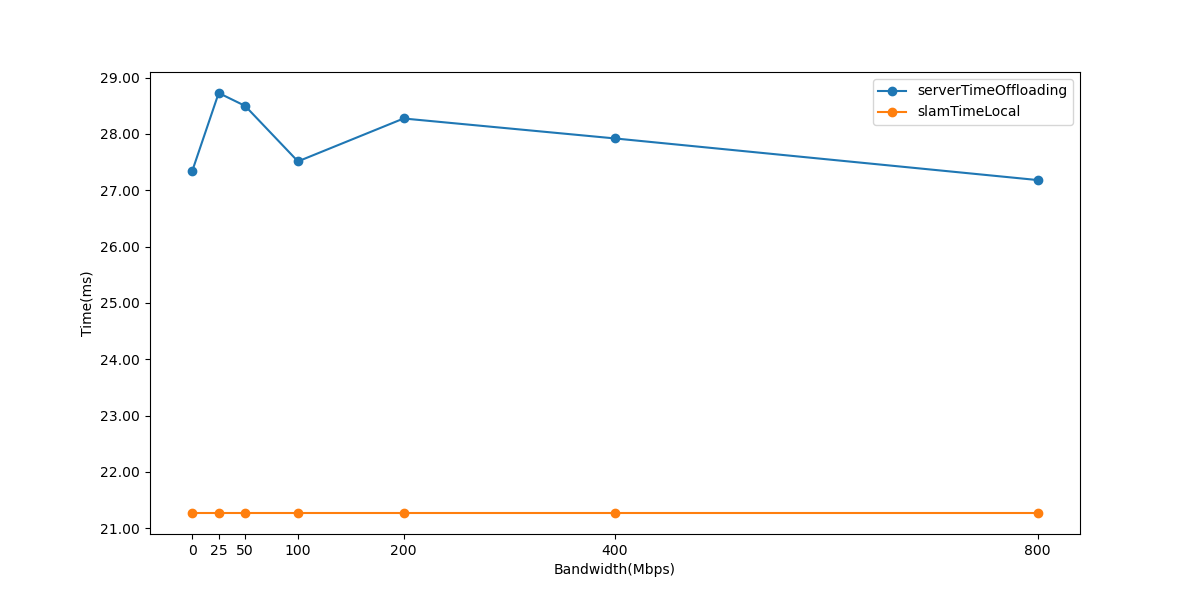
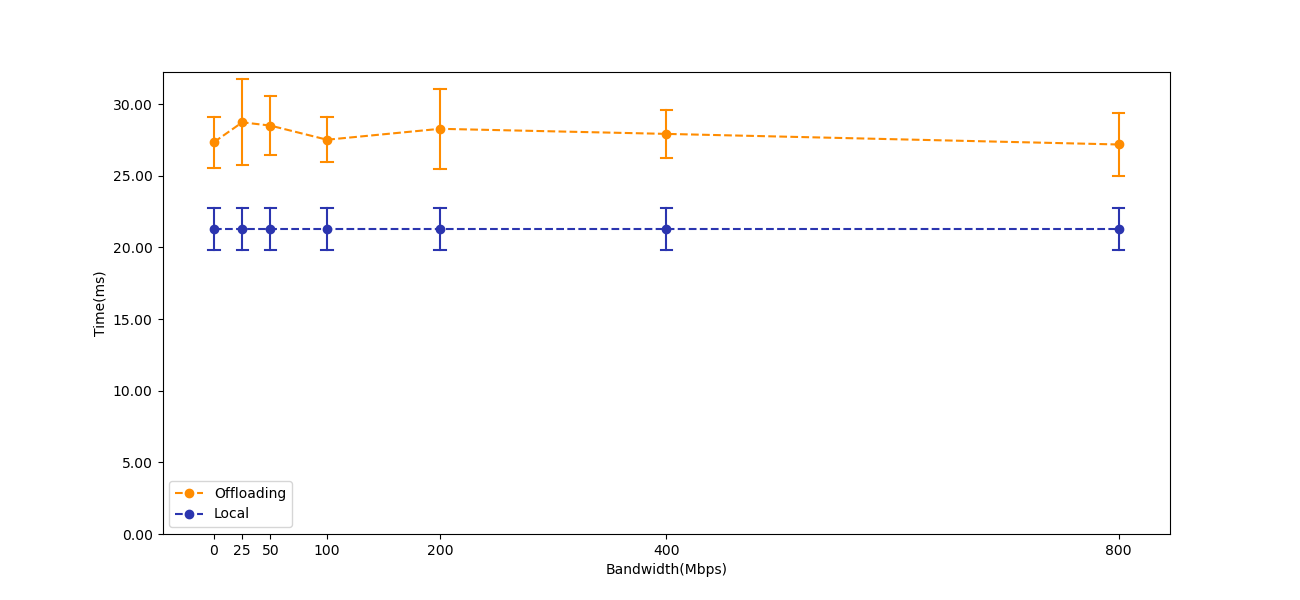
adding better graphs

diff --git a/offloading/graphs_generator.py b/offloading/graphs_generator.py
@@ -2,9 +2,11 @@ import os
 import pandas as pd
 import matplotlib.pyplot as plt
 import matplotlib.ticker as ticker
+import numpy as np
+import math
 
 def gen_local_statistics(local_statistic_path, labels):
-
+    z = 1.96
     arr = []
     
     for filename in os.listdir(local_statistic_path):
@@ -16,16 +18,28 @@ def gen_local_statistics(local_statistic_path, labels):
         
         arr.append(df[labels])        
     try:
-        statistics = pd.concat(arr, ignore_index=True).mean().to_frame().transpose()
+        statistics = pd.concat(arr, ignore_index=True).describe().T
+        statistics = statistics[['mean', 'std', 'count']]
+        interval = z * statistics['std']/np.sqrt(statistics['count'])
+        
+        statistics['upper'] = statistics['mean'] + interval
+        statistics['lower'] = statistics['mean'] - interval
+        
+        statistics = statistics.T
+
     except:
-        statistics = pd.DataFrame(columns=labels)
+        statistics = pd.DataFrame(columns = labels)
+    
+    
     
     return statistics
     
+
     
 def gen_formated_data(offloading_statistics_path, labels): 
-    mean = {}
-
+    cases = {}
+    z= 1.96
+    
     for case in os.listdir(offloading_statistics_path):
         case_path = os.path.join(offloading_statistics_path, case)
         arr = []
@@ -40,17 +54,24 @@ def gen_formated_data(offloading_statistics_path, labels):
             arr.append(df[labels])
 
         try:
-            data = pd.concat(arr, ignore_index=True).mean().to_frame().transpose()
+        
+            data = pd.concat(arr, ignore_index=True).describe().T
+            data = data[['mean', 'std', 'count']]
+            interval = z * data['std']/np.sqrt(data['count'])
+
+            data['upper'] = data['mean'] + interval
+            data['lower'] = data['mean'] - interval
+            data = data.T
             
         except:
             data = pd.DataFrame(columns= labels)
 
-        mean[float(case)] = data
+        cases[float(case)] = data
     
         
-    mean = dict(sorted(mean.items()))  
+    cases = dict(sorted(cases.items()))  
     
-    return mean
+    return cases
     
     
 def gen_all_data_graph(statistic, raw_data, local_statistics, legend):
@@ -90,26 +111,8 @@ def gen_all_data_graph(statistic, raw_data, local_statistics, legend):
 
 def gen_pair_graphs(pair, raw_data, local_statistics, statistic):
     data = {}
+    fig, ax = plt.subplots(figsize=(13, 6))  
 
-    for key in raw_data.keys():    
-        data[key] = raw_data[key].copy(deep= True)
-        data[key] = pd.concat([data[key], local_statistics], axis=1)
-        data[key] = data[key][pair]
-        data[key] = data[key].T.drop_duplicates().T    
-    
-    fig, ax = plt.subplots(figsize=(12, 6))  
-  
-    for label in pair:
-        x = list(data.keys())
-        y = [data[key][label] for key in x]
-        plt.xticks(x)
-
-        ax.plot(x, y, marker='o', label=label)       
-        
-    ax.yaxis.set_major_formatter(ticker.FormatStrFormatter('%.2f'))
-    
-    ax.legend() 
-     
     if pair[0] == 'FPSOffloading':
         plt.ylabel('FPS')
     else:
@@ -117,11 +120,54 @@ def gen_pair_graphs(pair, raw_data, local_statistics, statistic):
     
     if statistic == 'bandwidth':
         plt.xlabel("Bandwidth(Mbps)")
+        horizontal_line_width=10
     if statistic == 'delay':
+        horizontal_line_width=1
         plt.xlabel("Delay(ms)")
     if statistic == 'packetloss':
         plt.xlabel("Packetloss(%)")
+        horizontal_line_width=0.05
     
+    for key in raw_data.keys():    
+        data[key] = raw_data[key].copy(deep= True)
+        data[key] = pd.concat([data[key], local_statistics], axis=1)
+        data[key] = data[key][pair]
+        data[key] = data[key].T.drop_duplicates().T    
+    
+    arr_max_top = []
+    
+    for label in pair:
+        
+        if label.find('Local') == -1:
+            color = '#ff8c00'
+            legend = 'Offloading'
+        else:
+            color = '#2b35af'
+            legend = 'Local'
+       
+        x = data.keys()
+        y = [data[key][label]['mean'] for key in x]
+         
+        ax.plot(x, y, marker='o', label=legend, color = color, linestyle='--')       
+        plt.xticks(list(data.keys()))
+        
+        for key in data.keys():
+            left = key - horizontal_line_width/2
+            right = key + horizontal_line_width/2
+            bottom = data[key][label]['lower']
+            top = data[key][label]['upper']
+            plt.plot([key, key], [top, bottom], color = color)
+            plt.plot([left, right], [top, top], color = color)
+            plt.plot([left, right], [bottom, bottom], color = color)       
+
+            arr_max_top.append(0 if math.isnan(top) else top)
+
+    plt.ylim([0, max(arr_max_top) + 0.5])    
+    ax.yaxis.set_major_formatter(ticker.FormatStrFormatter('%.2f'))
+    
+    ax.legend() 
+     
+   
     if pair[0] == 'FPSOffloading':
         plt.savefig(f'./graphs/{statistic}_FPS.png')
     elif pair[0] == 'serverTimeOffloading':
@@ -147,7 +193,6 @@ def main():
             ]
     
     local_statistics = gen_local_statistics(local_statistic_path, local_labels)
-
     #fullLegend = offloading_labels + local_statistics.columns.tolist()
     
     #fullLegend.remove('FPSOffloading')
@@ -157,10 +202,9 @@ def main():
         statistic_path = os.path.join(offloading_path, statistic)
         
         data = gen_formated_data(statistic_path, offloading_labels)
-        gen_all_data_graph(statistic, data, local_statistics, ['serverTimeOffloading', 'slamTimeOffloading', 'streamingTimeOffloading', 'renderTimeOffloading', 'videoTimeOffloading'])
+       # gen_all_data_graph(statistic, data, local_statistics, ['serverTimeOffloading', 'slamTimeOffloading', 'streamingTimeOffloading', 'renderTimeOffloading', 'videoTimeOffloading'])
         
-                  
-                      
+                    
         for pair in pairMatrix:
             gen_pair_graphs(pair, data, local_statistics, statistic)        
         
